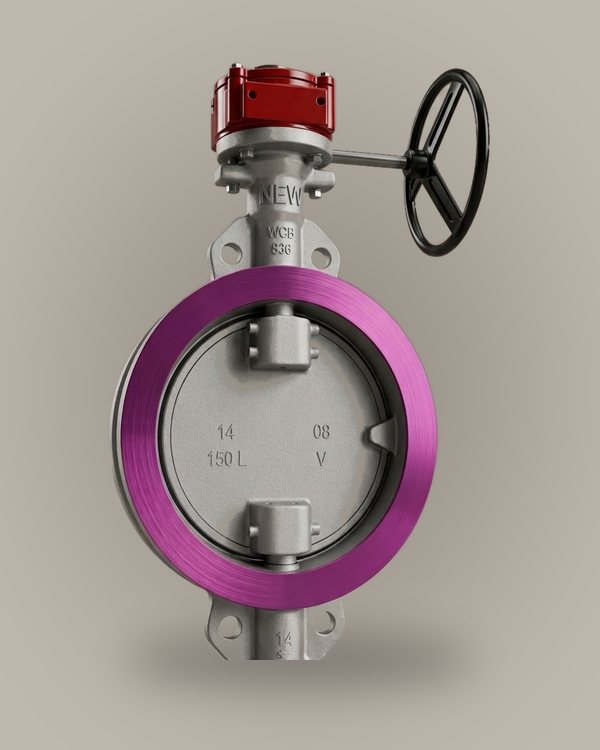
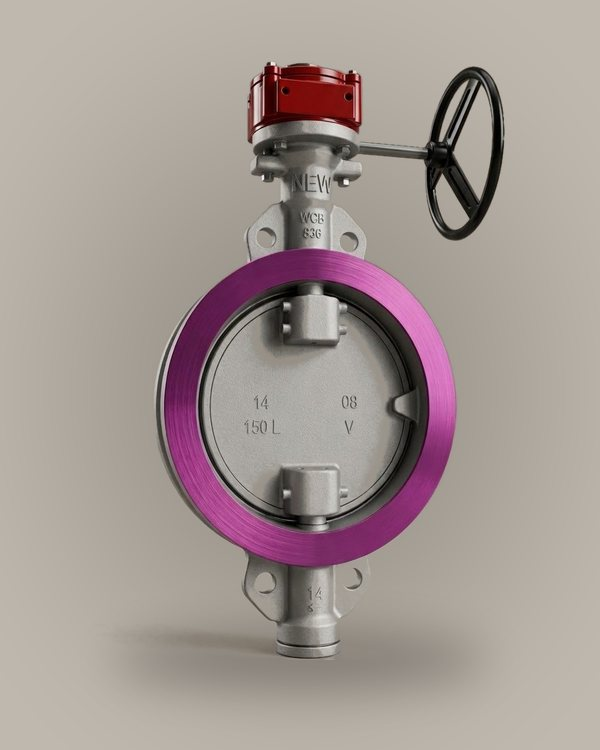
fix(imagem): bi-excêntrica com a base inteira (recortada da imagem da abertura)
O recorte antigo passava reto pela base do corpo; o card grande, a ficha e o
configurador mostravam a válvula decepada.

Claude-Session: https://claude.ai/code/session_013ZMvq2bHW9JtzL1E6y2RJy

Changed region(s): [[0.18, 0.0613, 0.84, 0.8893], [0.51, 0.552, 0.54, 0.5827]]

diff --git a/scripts/estudio.py b/scripts/estudio.py
@@ -153,8 +153,11 @@ def main(midia, render):
     if all((pasta / a).exists() for a, _, _ in PAR_GAVETA_GLOBO):
         pecas = [recortar_render(pasta / a, c, limiar=l) for a, c, l in PAR_GAVETA_GLOBO]
         salvar(compor_par(*pecas), "gaveta-globo")
-    salvar(render_no_estudio(render, 600, 750), "bi-excentrica")
-    salvar(render_no_estudio(render, 720, 1080), "bi-excentrica-alta")
+    # bi-excêntrica: recortada da imagem da abertura, que tem o corpo inteiro (o render antigo
+    # cortava a base). Caixa: a válvula com o colar de baixo, sem o reflexo no chão.
+    bi = recortar_render(ROOT / "img" / "produtos" / "palco-estatico.jpg", (1250, 200, 2400, 1316), limiar=12)
+    salvar(compor(bi, 600, 750, altura=0.8), "bi-excentrica")
+    salvar(compor(bi, 720, 1080, altura=0.8), "bi-excentrica-alta")
 
 
 if __name__ == "__main__":
